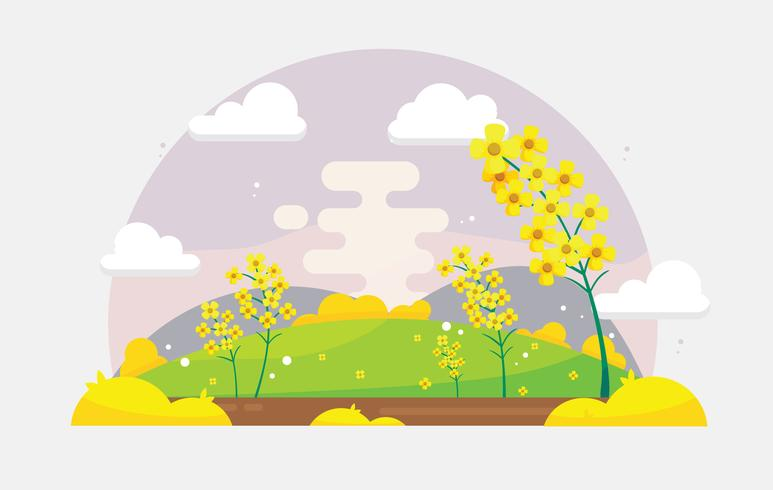
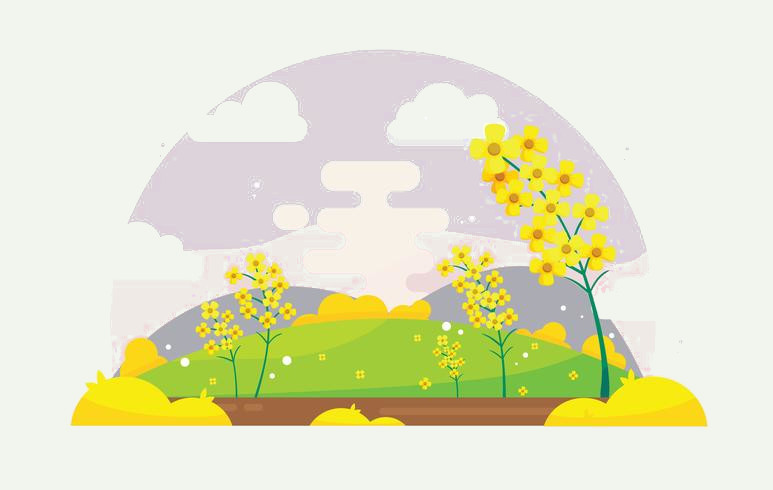
Improved translation quality + changes in alerts in auth + styling changes in grounding

diff --git a/app/(activities)/firstaid/grounding.jsx b/app/(activities)/firstaid/grounding.jsx
@@ -8,6 +8,7 @@ import ThemedButton from '../../../components/ThemedButton';
 import BackButton from '../../../components/BackButton';
 import { useTranslation } from '../../../constants/translations';
 import { SafeAreaView } from 'react-native-safe-area-context';
+import { Colors } from '../../../constants/Colors';
 
 export default function Grounding() {
   const router = useRouter();
@@ -21,35 +22,35 @@ export default function Grounding() {
       sense: t('firstAid.grounding.see'),
       prompt: t('firstAid.grounding.seePrompt'),
       icon: 'eye-outline',
-      color: '#66BB6A'
+      color: '#6B9E78'
     },
     {
       number: 4,
       sense: t('firstAid.grounding.touch'),
       prompt: t('firstAid.grounding.touchPrompt'),
       icon: 'hand-left-outline',
-      color: '#42A5F5'
+      color: '#7BA3C1'
     },
     {
       number: 3,
       sense: t('firstAid.grounding.hear'),
       prompt: t('firstAid.grounding.hearPrompt'),
       icon: 'ear-outline',
-      color: '#9575CD'
+      color: '#9E8BC1'
     },
     {
       number: 2,
       sense: t('firstAid.grounding.smell'),
       prompt: t('firstAid.grounding.smellPrompt'),
       icon: 'flower-outline',
-      color: '#FF6B9D'
+      color: '#D989AA'
     },
     {
       number: 1,
       sense: t('firstAid.grounding.taste'),
       prompt: t('firstAid.grounding.tastePrompt'),
       icon: 'ice-cream-outline',
-      color: '#FFA726'
+      color: '#E8B86D'
     }
   ];
 
@@ -143,14 +144,16 @@ export default function Grounding() {
           <View style={[styles.iconCircle, { backgroundColor: `${step.color}15` }]}>
             <Ionicons name={step.icon} size={60} color={step.color} />
           </View>
-
-          <ThemedText title={true} style={styles.stepNumber}>
+          
+          <View style={{flexDirection:'row',alignItems:'flex-end',paddingHorizontal:27,gap:15}}>
+          <ThemedText title={true} style={[styles.stepNumber,{color:step.color}]}>
             {step.number}
           </ThemedText>
 
           <ThemedText style={styles.stepSense}>
             {step.sense}
           </ThemedText>
+          </View>
 
           <ThemedText style={styles.stepPrompt}>
             {step.prompt}
@@ -158,7 +161,7 @@ export default function Grounding() {
 
           {isLastStep && (
             <View style={styles.completionBox}>
-              <Ionicons name="checkmark-circle" size={40} color="#4CAF50" />
+              <Ionicons name="checkmark-circle" size={30} color="#4CAF50" />
               <ThemedText style={styles.completionText}>
                 {t('firstAid.grounding.complete')}
               </ThemedText>
@@ -208,17 +211,17 @@ const styles = StyleSheet.create({
     paddingHorizontal: 30,
   },
   title: {
-    fontSize: 28,
+    fontSize: 24,
     marginTop: 20,
-    marginBottom: 16,
+    marginBottom: 12,
     textAlign: 'center',
   },
   description: {
-    fontSize: 16,
+    fontSize: 15,
     textAlign: 'center',
-    color: '#666',
+    color: '#555',
     marginBottom: 30,
-    lineHeight: 24,
+    lineHeight: 22,
   },
   instructionsBox: {
     backgroundColor: '#E8F5E9',
@@ -228,25 +231,25 @@ const styles = StyleSheet.create({
     width: '100%',
   },
   instructionsTitle: {
-    fontSize: 18,
-    marginBottom: 12,
+    fontSize: 17,
+    marginBottom: 8,
     color: '#2E7D32',
   },
   instructions: {
     fontSize: 14,
     color: '#4CAF50',
-    lineHeight: 22,
+    lineHeight: 20,
   },
   startButton: {
     backgroundColor: '#66BB6A',
-    paddingVertical: 16,
+    paddingVertical: 14,
     paddingHorizontal: 40,
     borderRadius: 12,
     width: '100%',
   },
   startButtonText: {
     color: '#fff',
-    fontSize: 18,
+    fontSize: 16,
     textAlign: 'center',
   },
   progressContainer: {
@@ -268,7 +271,8 @@ const styles = StyleSheet.create({
   },
   progressFill: {
     height: '100%',
-    backgroundColor: '#66BB6A',
+    //backgroundColor: '#4CAF50',
+    backgroundColor:Colors.primary,
   },
   stepContainer: {
     //flexGrow: 1,
@@ -286,17 +290,19 @@ const styles = StyleSheet.create({
     //marginBottom: 30,
   },
   stepNumber: {
-    fontSize: 72,
+    fontSize: 60,
     color: '#66BB6A',
     marginBottom: 10,
+    marginLeft:30,
+    
   },
   stepSense: {
-    fontSize: 24,
-    marginBottom: 10,
-    textAlign: 'center',
+    fontSize: 20,
+    marginBottom: 23,
+    //textAlign: 'center',
   },
   stepPrompt: {
-    fontSize: 16,
+    fontSize: 15,
     textAlign: 'center',
     color: '#666',
     lineHeight: 24,
@@ -311,7 +317,6 @@ const styles = StyleSheet.create({
   completionText: {
     fontSize: 18,
     color: '#4CAF50',
-    fontWeight: '600',
     marginTop: 12,
     textAlign: 'center',
   },
@@ -319,16 +324,17 @@ const styles = StyleSheet.create({
     paddingHorizontal: 20,
     paddingBottom: 20,
     gap: 12,
-    //flex:1,
+    flexGrow:1,
+    justifyContent: 'center',
   },
   nextButton: {
-    backgroundColor: '#66BB6A',
+    //backgroundColor: '#66BB6A',
     paddingVertical: 16,
     borderRadius: 12,
   },
   nextButtonText: {
     color: '#fff',
-    fontSize: 18,
+    fontSize: 16,
     textAlign: 'center',
   },
   restartButton: {

diff --git a/app/(auth)/login.jsx b/app/(auth)/login.jsx
@@ -131,34 +131,25 @@ const Login = () => {
         return !emailError && !passwordError;
     };
 
-    const handleAlert = (title,message) => {
+    const handleAlert = (title, message, onConfirmAction) => {
         setAlertConfig({
-                type: 'error',
-                title: title,
-                message: message,
-                showCancel: true,
-            
-                onConfirm: async () => {
-                try {
-                    const result = await logout();
-                    if (!result.success) {
-                        setAlertConfig({
-                            type: 'error',
-                            title: t('common.error'),
-                            message: t('profile.logoutError'),
-                            onClose: () => setAlertConfig(null)
-                        });
-                    } else {
-                        setAlertConfig(null);
-                    }
-                } catch (error) {
-                    console.log('Logout error:', error);
-                    setAlertConfig(null);
-                }
-            }, 
-            onClose: () => setAlertConfig(null)
+          type: 'error',
+          title: title,
+          message: message,
+          showCancel: !!onConfirmAction,
+          onConfirm: async () => {
+            try {
+              if (onConfirmAction) {
+                await onConfirmAction();
+              }
+              setAlertConfig(null);
+            } catch (error) {
+              setAlertConfig(null);
+            }
+          }, 
+          onClose: () => setAlertConfig(null)
         });
-    }
+      };
 
     const handleLogin = async () => {
         if (!validateForm()) {
@@ -290,7 +281,7 @@ const Login = () => {
                         {/* Or Divider */}
                         <View style={styles.orContainer}>
                             <View style={styles.orLine} />
-                            <ThemedText style={styles.orText}>{t('auth.continue')}</ThemedText>
+                            <ThemedText style={styles.orText}>{t('auth.loginWith')}</ThemedText>
                             <View style={styles.orLine} />
                         </View>
                         

diff --git a/app/(auth)/register.jsx b/app/(auth)/register.jsx
@@ -39,6 +39,26 @@ const Register = () => {
             webClientId: GOOGLE_WEB_CLIENT_ID,
         });
     }, []);
+
+    const handleAlert = (title, message, onConfirmAction) => {
+            setAlertConfig({
+              type: 'error',
+              title: title,
+              message: message,
+              showCancel: !!onConfirmAction,
+              onConfirm: async () => {
+                try {
+                  if (onConfirmAction) {
+                    await onConfirmAction();
+                  }
+                  setAlertConfig(null);
+                } catch (error) {
+                  setAlertConfig(null);
+                }
+              }, 
+              onClose: () => setAlertConfig(null)
+            });
+          };
      
     const handleGoogleSignIn = async () => {
       try {
@@ -392,7 +412,7 @@ const Register = () => {
                     {/* Or Divider */}
                     <View style={styles.orContainer}>
                         <View style={styles.orLine} />
-                        <ThemedText style={styles.orText}>{t('auth.continue')}</ThemedText>
+                        <ThemedText style={styles.orText}>{t('auth.signUpWith')}</ThemedText>
                         <View style={styles.orLine} />
                     </View>
                     

diff --git a/app/(modals)/habit-stats.jsx b/app/(modals)/habit-stats.jsx
@@ -541,7 +541,7 @@ if (!habit) {
           </View>
           </View>
           
-          <ThemedText style={styles.calendarHint}>
+          <ThemedText title style={styles.calendarHint}>
             {t('habitStats.calendarHint', { month: calendarData.monthName.split(' ')[0] })}
           </ThemedText>
         </View>
@@ -599,7 +599,6 @@ if (!habit) {
              }}
           />
         )} */}
-
 
           <Spacer height={50} />
         </ScrollView>
@@ -949,7 +948,7 @@ calendar: {
     fontSize: 12,
     color: '#999',
     textAlign: 'center',
-    fontStyle: 'italic',
+    //fontStyle: 'italic',
   },
 
   // Action Buttons

diff --git a/app/(activities)/soundscapes.jsx b/app/(activities)/soundscapes.jsx
@@ -121,7 +121,7 @@ export default function Soundscapes() {
         <Ionicons name={item.icon} size={26} color={item.color} />
         <View style={styles.soundText}>
           <ThemedText title={true} style={styles.soundName}>{item.name}</ThemedText>
-          <ThemedText style={styles.soundDescription}>{item.description}</ThemedText>
+          {<ThemedText style={styles.soundDescription}>{item.description}</ThemedText>}
         </View>
       </View>
       
@@ -155,7 +155,7 @@ export default function Soundscapes() {
           <View style={styles.nowPlaying}>
             <Ionicons name="musical-note" size={20} color="#2E7D32" />
             <ThemedText style={styles.nowPlayingText}>
-              Playing: {currentSound.name}
+              {t('soundscapes.nowPlaying')}: {currentSound.name}
             </ThemedText>
           </View>
         )}

diff --git a/app/(activities)/actOfKindness.jsx b/app/(activities)/actOfKindness.jsx
@@ -305,7 +305,7 @@ const renderActItem = (act) => {
           <View style={styles.progressCard}>
             <Ionicons name="heart" size={24} color="#FF6B9D" />
             <ThemedText style={styles.progressText}>
-              {todayCount} {t('kindness.actsToday')}
+             {todayCount} { todayCount > 1 || todayCount === 0 ? t('kindness.actsToday') : t('kindness.actToday') }
             </ThemedText>
           </View>
         </View>

diff --git a/app/index.jsx b/app/index.jsx
@@ -97,5 +97,7 @@ const styles = StyleSheet.create({
   },
   subtitle: {
     fontSize: 16,
+    marginTop:2,
+    color:'#333'
   },
 });